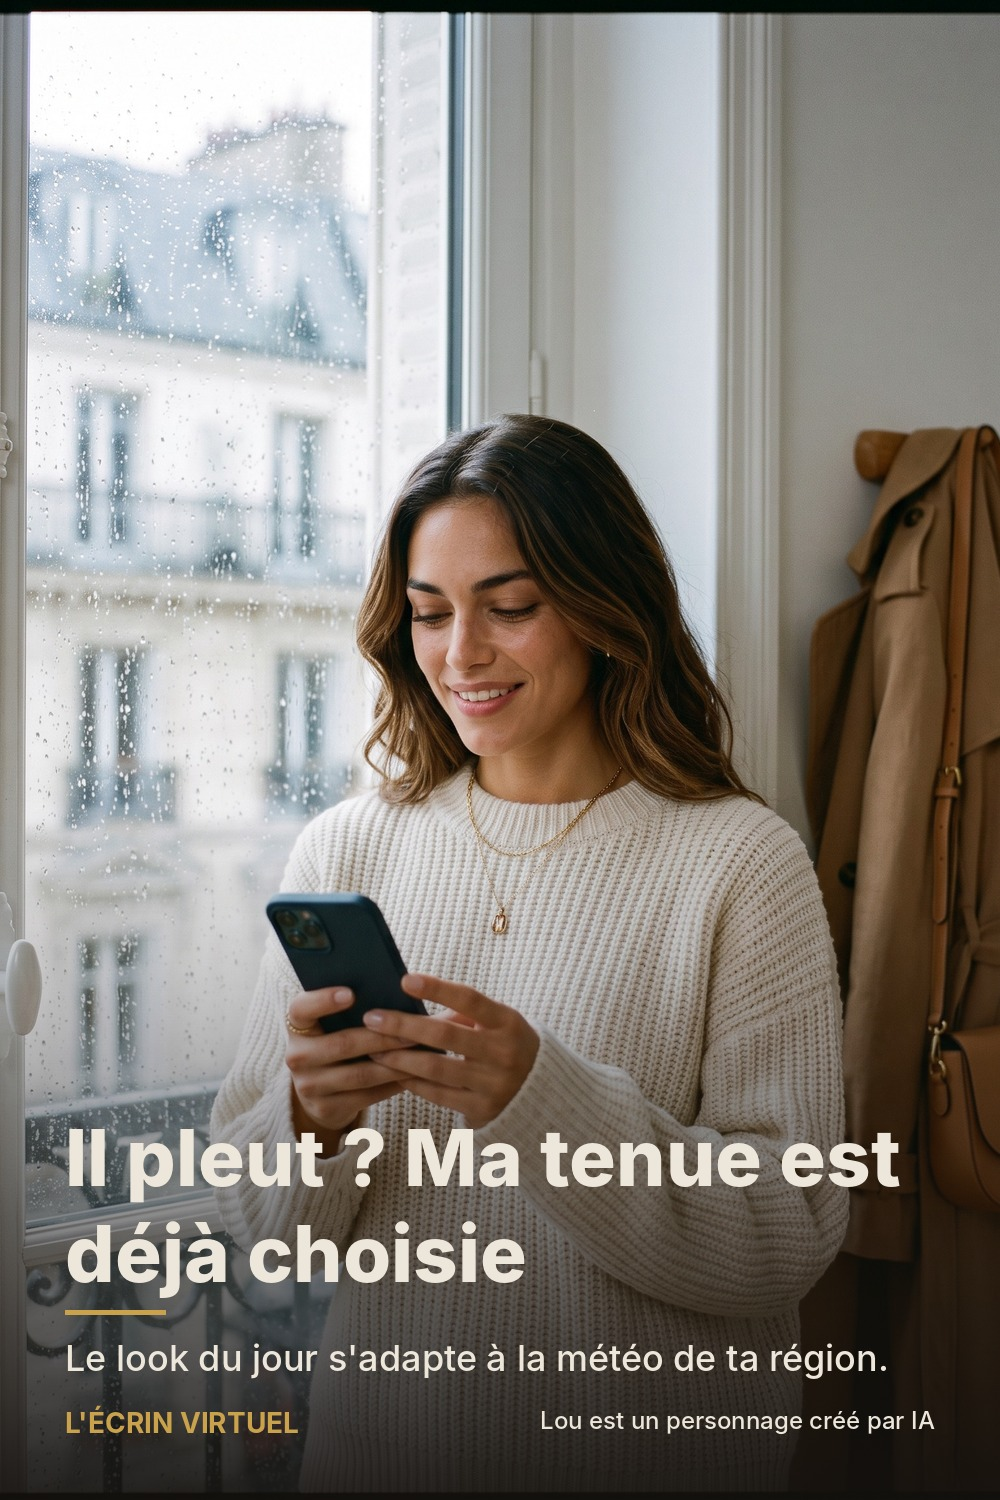
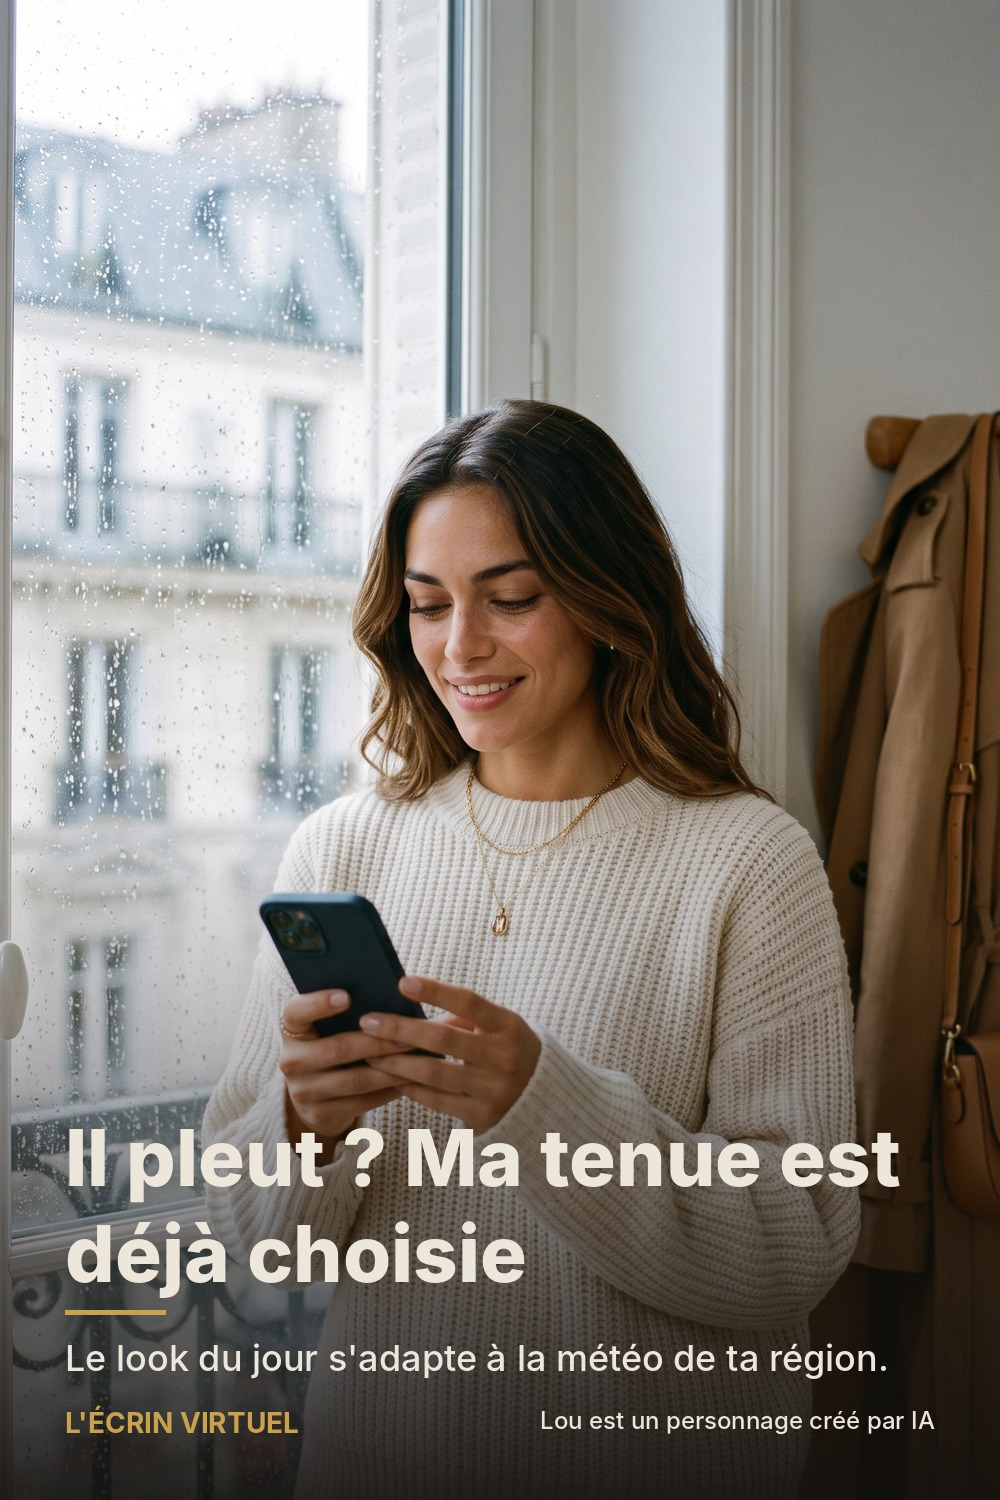
J2 pins: crop out the dark top edge of the source photos
Claude-Session: https://claude.ai/code/session_01JFwFZ4MKLe1cLzU9u5Bwmk

diff --git a/scripts/lou-pin.py b/scripts/lou-pin.py
@@ -2,7 +2,7 @@
 """Build a Pinterest pin (1000x1500, 2:3) from one of Lou's photos.
 
 Usage: python3 scripts/lou-pin.py plan.json
-Plan: {"pins": [{"photo": path, "title": "...", "sub": "...", "out": path, "focus_y": 0.35}]}
+Plan: {"pins": [{"photo": path, "title": "...", "sub": "...", "out": path, "focus_y": 0.35, "zoom": 1.0}]}
 Needs Pillow. Title and sub are burned over a bottom gradient; the AI disclosure
 and brand line are always added.
 """
@@ -35,7 +35,7 @@ def wrap(draw, text, fnt, width):
 
 def build(p):
     img = Image.open(p["photo"]).convert("RGB")
-    scale = max(W / img.width, H / img.height)
+    scale = max(W / img.width, H / img.height) * p.get("zoom", 1.0)
     img = img.resize((round(img.width * scale), round(img.height * scale)), Image.LANCZOS)
     top = int((img.height - H) * p.get("focus_y", 0.35))
     img = img.crop(((img.width - W) // 2, top, (img.width - W) // 2 + W, top + H))
